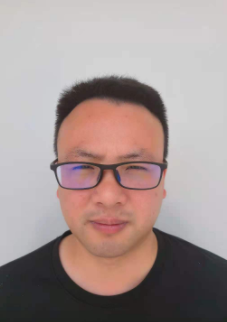
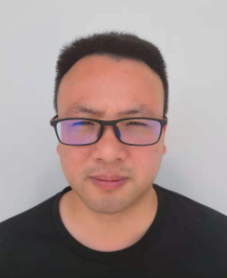
实时人脸抓拍列表

Changed region(s): [[0.0, 0.0863, 1.0, 0.9209]]

diff --git a/src/components/snap/index.jsx b/src/components/snap/index.jsx
@@ -9,8 +9,8 @@ function Snap() {
   const title = "实时人脸抓拍列表";
   const snapData = [
     {
-      name: "张学李(12452)",
-      pic: "P4",
+      name: "刘维维",
+      pic: "1",
       what: "生产管理部门",
       time: timeNow,//这个时间需要跟随变动
       where: "西区前台",
@@ -18,14 +18,14 @@ function Snap() {
     },
     {
       name: "陌生人",
-      pic: "P2",
+      pic: "2",
       time: timeNow,
       where: "行政楼办公室楼梯间",
       isHere: "no",
     },
     {
-      name: "王学李(12452)",
-      pic: "P3",
+      name: "李孝勇",
+      pic: "3",
       what: "生产管理部门",
       time: timeNow,
       where: "东区二号辅房",
@@ -86,14 +86,15 @@ function Snap() {
             <div key={index} className="snap_top">
               <div className="t_name">{item.name}</div>
               <div className="t_con">
-                <img
-                  className="t_tou"
-                  src={
-                    require("../../assets/tongwei/RRR/" + item.pic + ".png")
-                      .default
-                  }
-                  alt=""
-                />
+                <div className="t_tou">
+                  <img
+                    src={
+                      require("../../assets/tongwei/" + item.pic + ".png")
+                        .default
+                    }
+                    alt=""
+                  />
+                </div>
                 <div className="t_right">
                   <div className="t_what">
                     <img
@@ -121,13 +122,14 @@ function Snap() {
             </div>
           ) : (
             <div key={index} className="snap_bot">
+              <div className="bot_tou">
               <img
-                className="bot_tou"
                 src={
-                  require("../../assets/tongwei/RRR/" + item.pic + ".png").default
+                  require("../../assets/tongwei/" + item.pic + ".png").default
                 }
                 alt=""
               />
+              </div>
               <div className="bot_right">
                 <div className="bot_name">{item.name}</div>
                 <div className="bot_time bot_same">

diff --git a/src/components/snap/style.scss b/src/components/snap/style.scss
@@ -46,8 +46,14 @@
         overflow: hidden;
         .t_tou {
           width: 56px;
+          height:60px;
+          overflow: hidden;
           float: left;
           margin-top: 10px;
+          img{
+            width: 56px;
+            height:60px;
+          }
         }
         .t_right {
           float: left;
@@ -79,9 +85,14 @@
       margin-top: 10px;
       .bot_tou {
         width: 56px;
+        height:60px;
         float: left;
         margin-top: 12px;
         margin-left: 10px;
+        overflow: hidden;
+        img{
+          width: 56px;
+        }
       }
       .bot_right {
         float: left;
